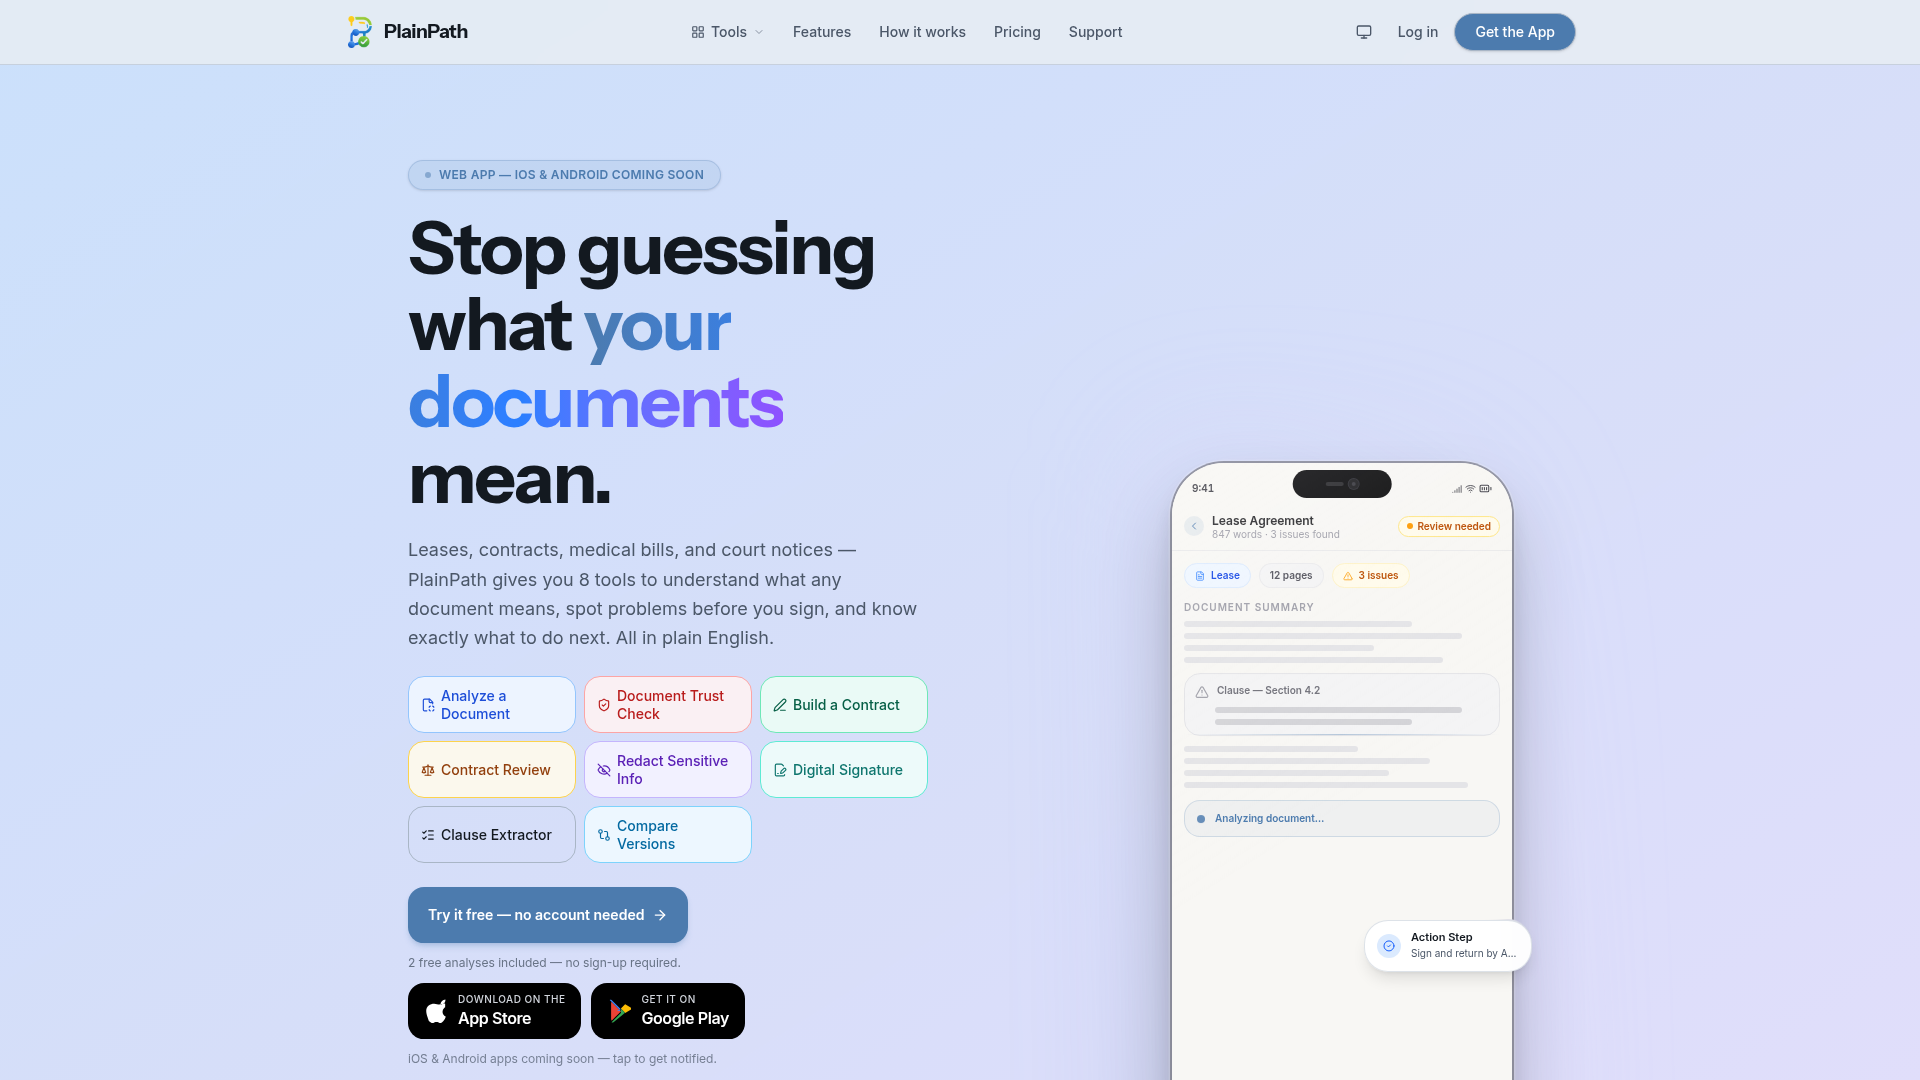
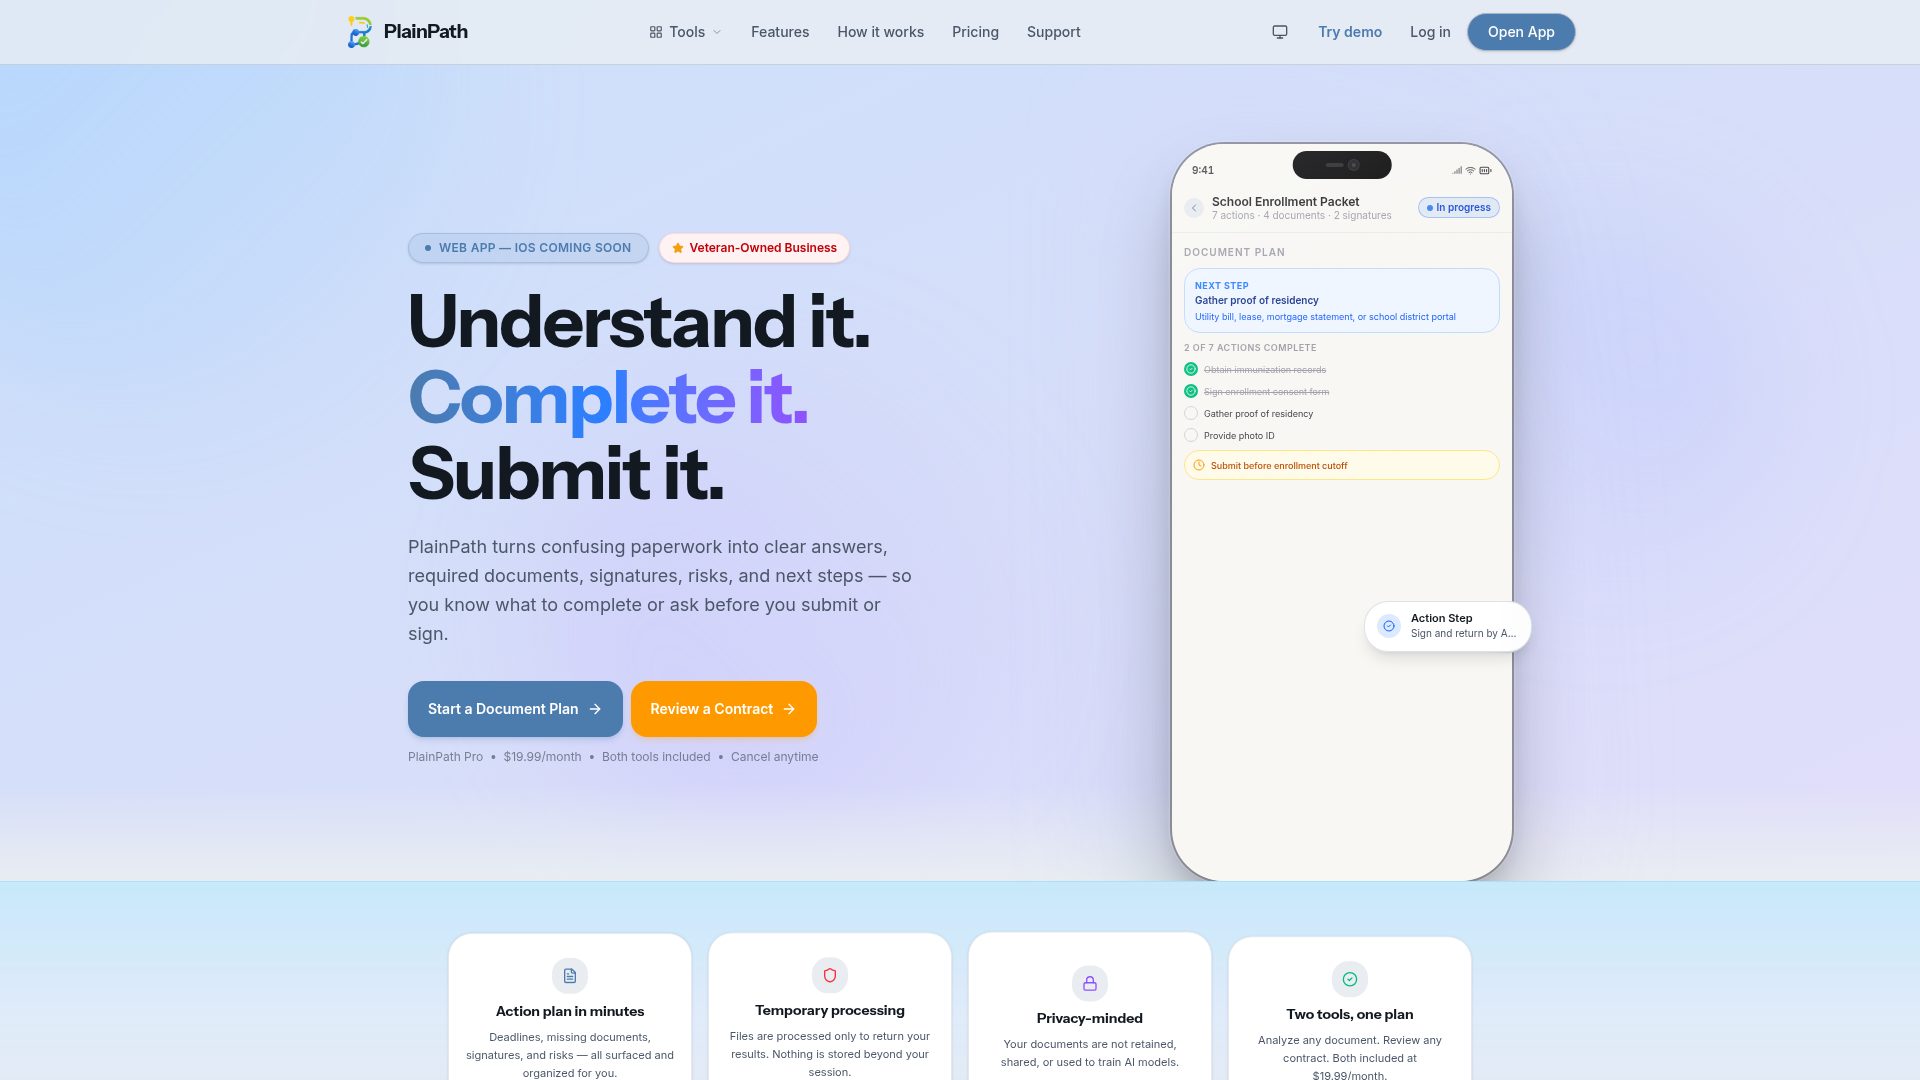
Update marketing page pricing and plan descriptions
Fix JSON-LD structured data for marketing page pricing and plan details to accurately reflect the Pro plan and remove the non-existent Starter plan.

Replit-Commit-Author: Agent
Replit-Commit-Session-Id: b292021b-1184-4e23-ba04-698089981ea2
Replit-Commit-Checkpoint-Type: full_checkpoint
Replit-Commit-Event-Id: 54037817-1a2d-40ef-b3bc-4e148d43a1bf
Replit-Commit-Screenshot-Url: https://storage.googleapis.com/screenshot-production-us-central1/885b88a3-2819-4ae4-a907-ae2c1eae3cdf/b292021b-1184-4e23-ba04-698089981ea2/T5bJ3Ai
Replit-Helium-Checkpoint-Created: true

diff --git a/artifacts/plainpath-marketing/index.html b/artifacts/plainpath-marketing/index.html
@@ -46,17 +46,10 @@
           "offers": [
             {
               "@type": "Offer",
-              "name": "Starter",
-              "price": "4.99",
-              "priceCurrency": "USD",
-              "description": "Analyze and redact documents in plain English."
-            },
-            {
-              "@type": "Offer",
               "name": "Pro",
               "price": "19.99",
               "priceCurrency": "USD",
-              "description": "All 8 tools — unlimited use."
+              "description": "Analyze a Document and Contract Review — both tools, unlimited use."
             }
           ]
         },
@@ -99,7 +92,7 @@
               "name": "How much does PlainPath cost?",
               "acceptedAnswer": {
                 "@type": "Answer",
-                "text": "PlainPath offers two plans: Starter at $4.99/month and Pro at $19.99/month. Both plans include a 30-day money-back guarantee."
+                "text": "PlainPath Pro is $19.99/month and includes both tools — Analyze a Document and Contract Review — with a 7-day free trial."
               }
             }
           ]
